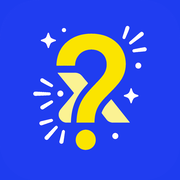
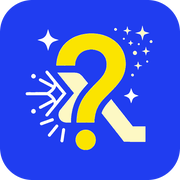
TriviX League: Instagram y YouTube, icono nuevo y marca en el titular

diff --git a/index.html b/index.html
@@ -3,15 +3,15 @@
 <head>
 <meta charset="UTF-8">
 <meta name="viewport" content="width=device-width, initial-scale=1.0">
-<title>TriviX — Responde. Aprende. Gana. / Answer. Learn. Win.</title>
-<meta name="description" content="TriviX: pon a prueba lo que sabes, reta a tus amigos en duelos 1vs1 y sube de rango. / Test what you know, challenge friends to 1v1 duels, and climb the ranks.">
+<title>TriviX League — Responde. Aprende. Gana. / Answer. Learn. Win.</title>
+<meta name="description" content="TriviX League: pon a prueba lo que sabes, reta a tus amigos en duelos 1vs1 y sube de rango. / Test what you know, challenge friends to 1v1 duels, and climb the ranks.">
 <!-- Favicon de 32 px aparte: si solo se le da el de 512, cada navegador lo reduce a su
      manera para la pestaña y algunos dejan un cerco claro en el borde. El ?v=2 es para
      que los navegadores que ya guardaron el icono viejo (una interrogacion sobre fondo
      blanco) se bajen el nuevo; los favicon se cachean con mucha insistencia. -->
-<link rel="icon" type="image/png" sizes="32x32" href="favicon-32.png?v=2">
-<link rel="icon" type="image/png" sizes="512x512" href="icono.png?v=2">
-<link rel="apple-touch-icon" href="apple-touch-icon.png?v=2">
+<link rel="icon" type="image/png" sizes="32x32" href="favicon-32.png?v=3">
+<link rel="icon" type="image/png" sizes="512x512" href="icono.png?v=3">
+<link rel="apple-touch-icon" href="apple-touch-icon.png?v=3">
 <link rel="preconnect" href="https://fonts.googleapis.com">
 <link rel="preconnect" href="https://fonts.gstatic.com" crossorigin>
 <link href="https://fonts.googleapis.com/css2?family=Baloo+2:wght@500;700;800&family=Manrope:wght@400;500;600;700;800&display=swap" rel="stylesheet">
@@ -59,6 +59,11 @@
   .nav-fila{ display:flex; align-items:center; justify-content:space-between; padding:16px 24px; max-width:1120px; margin:0 auto; gap:16px; }
   .marca{ font-size:22px; font-weight:800; letter-spacing:-0.01em; text-decoration:none; display:flex; align-items:center; gap:9px; flex:none; }
   .marca .x{ color:var(--dorado); }
+  /* "League" en una segunda linea, como en el logo del juego: en una sola linea la marca
+     media 210 px y en un telefono estrecho empujaba fuera el boton de "Jugar". La L va en
+     dorado igual que la X, que es lo que las hace pareja. */
+  .marca-txt{ display:flex; flex-direction:column; line-height:1; }
+  .marca-league{ font-size:0.62em; letter-spacing:0.04em; margin-top:-0.06em; }
   /* El icono de verdad de la app, no la interrogacion dibujada a mano que habia antes.
      Es el mismo fichero que se usa de favicon, asi que el navegador solo lo baja una vez. */
   /* Sin border-radius a proposito: el PNG ya lleva las esquinas redondeadas y
@@ -113,6 +118,9 @@
     padding:7px 14px; border-radius:999px; text-transform:uppercase; }
   .titulo{ font-size:clamp(46px,7.5vw,84px); font-weight:800; line-height:.95; margin:20px 0 6px; letter-spacing:-0.01em; }
   .titulo .trivi{ color:#fff; } .titulo .x{ color:var(--dorado); }
+  /* LEAGUE debajo y muy pegado, como el logo del juego: en una sola linea, a 84 px, no cabe
+     en el hero de un portatil. La L va en dorado igual que la X. */
+  .titulo .league{ display:block; font-size:0.66em; letter-spacing:0.02em; margin-top:-0.14em; }
   .eslogan{ font-size:clamp(19px,2.6vw,26px); font-weight:700; margin:2px 0 20px; }
   .eslogan .r{ color:#fff; } .eslogan .a{ color:var(--dorado); } .eslogan .g{ color:var(--cian); }
   .hero p.sub{ color:var(--suave); font-size:16.5px; max-width:46ch; margin:0 0 30px; }
@@ -343,7 +351,7 @@
 
 <header class="nav">
   <div class="nav-fila">
-    <a class="marca" href="#inicio"><img class="icono" src="icono.png" alt="" width="32" height="32">Trivi<span class="x">X</span></a>
+    <a class="marca" href="#inicio"><img class="icono" src="icono.png?v=3" alt="" width="32" height="32"><span class="marca-txt"><span>Trivi<span class="x">X</span></span><span class="marca-league"><span class="x">L</span>EAGUE</span></span></a>
     <div class="idiomas">
       <button type="button" data-idioma="es" aria-pressed="true">ES</button>
       <button type="button" data-idioma="en" aria-pressed="false">EN</button>
@@ -368,7 +376,7 @@
   <div class="hero-int">
     <div>
       <span class="eyebrow"><span lang="es">Trivia · Duelos · Rankings</span><span lang="en">Trivia · Duels · Rankings</span></span>
-      <h1 class="titulo"><span class="trivi">Trivi</span><span class="x">X</span></h1>
+      <h1 class="titulo"><span class="trivi">Trivi</span><span class="x">X</span><span class="league"><span class="x">L</span>EAGUE</span></h1>
       <p class="eslogan" lang="es"><span class="r">Responde.</span> <span class="a">Aprende.</span> <span class="g">Gana.</span></p>
       <p class="eslogan" lang="en"><span class="r">Answer.</span> <span class="a">Learn.</span> <span class="g">Win.</span></p>
       <p class="sub" lang="es">Pon a prueba lo que sabes, reta a tus amigos en duelos 1 contra 1 y sube de rango
@@ -376,7 +384,7 @@
       <p class="sub" lang="en">Test what you know, challenge your friends to 1-on-1 duels, and climb the ranks
       every day. Thousands of questions are waiting for you.</p>
       <div class="cta-fila">
-        <a class="boton-oro" href="#descarga">▶ <span lang="es">Descargar TriviX</span><span lang="en">Download TriviX</span></a>
+        <a class="boton-oro" href="#descarga">▶ <span lang="es">Descargar TriviX League</span><span lang="en">Download TriviX League</span></a>
         <a class="boton-fantasma" href="#modos"><span lang="es">Ver modos de juego</span><span lang="en">See game modes</span></a>
       </div>
     </div>
@@ -536,16 +544,16 @@
     <div class="descarga">
       <div>
         <span class="eyebrow"><span lang="es">Empieza ya</span><span lang="en">Get started now</span></span>
-        <h2 lang="es">Sé de las primeras 1.000 personas en jugar</h2>
-        <h2 lang="en">Be one of the first 1,000 people to play</h2>
-        <p lang="es">TriviX está en acceso anticipado y las plazas son limitadas. Entra ahora, elige
-        un nombre y empieza a subir de rango antes que nadie. Gratis.</p>
-        <p lang="en">TriviX is in early access and spots are limited. Join now, pick a name and start
-        climbing the ranks before anyone else. Free to play.</p>
+        <h2 lang="es">Ya disponible en Google Play</h2>
+        <h2 lang="en">Out now on Google Play</h2>
+        <p lang="es">TriviX League ya está publicado en 177 países. Descárgalo, elige un nombre y
+        empieza a subir de rango. Gratis.</p>
+        <p lang="en">TriviX League is out in 177 countries. Download it, pick a name and start
+        climbing the ranks. Free to play.</p>
         <div class="descarga-botones">
           <p class="chapa-anticipado">🚀
-            <span lang="es">Acceso anticipado · <span class="plazas">solo 1.000 plazas</span></span>
-            <span lang="en">Early access · <span class="plazas">only 1,000 spots</span></span>
+            <span lang="es">Disponible en <span class="plazas">177 países</span></span>
+            <span lang="en">Available in <span class="plazas">177 countries</span></span>
           </p>
           <a class="boton-play" href="https://play.google.com/store/apps/details?id=com.trivixsn.app">▶ <span lang="es">Consigue tu plaza en Google Play</span><span lang="en">Get your spot on Google Play</span></a>
           <span class="nota-ios"><span lang="es">La versión de iOS llegará próximamente.</span><span lang="en">The iOS version is coming soon.</span></span>
@@ -582,10 +590,10 @@
     </div>
     <div class="sobre">
       <div>
-        <p lang="es">Detrás de TriviX hay <b class="firma">un chaval con ganas de hacer su propio juego para
+        <p lang="es">Detrás de TriviX League hay <b class="firma">un chaval con ganas de hacer su propio juego para
         móvil</b> y de aprender por el camino. Sin empresa detrás, sin inversores y sin nadie a quien
         pasarle los marrones cuando algo se rompe.</p>
-        <p lang="en">Behind TriviX there is <b class="firma">one guy who wants to build his own mobile
+        <p lang="en">Behind TriviX League there is <b class="firma">one guy who wants to build his own mobile
         game</b> and learn along the way. No company backing it, no investors, and nobody else to hand
         the problems to when something breaks.</p>
 
@@ -617,10 +625,10 @@
         what the game has today came from someone taking the time to tell me.</p>
       </div>
       <aside class="sobre-tarjeta">
-        <img src="icono.png" alt="TriviX" width="88" height="88">
-        <b style="font-family:'Baloo 2',sans-serif;font-size:21px;">TriviX</b>
+        <img src="icono.png?v=3" alt="TriviX League" width="88" height="88">
+        <b style="font-family:'Baloo 2',sans-serif;font-size:21px;">TriviX League</b>
         <div class="sobre-datos">
-          <p class="sobre-dato"><b>+4.000</b><span lang="es">preguntas en 7 categorías</span><span lang="en">questions across 7 categories</span></p>
+          <p class="sobre-dato"><b>+4.500</b><span lang="es">preguntas en 8 categorías</span><span lang="en">questions across 8 categories</span></p>
           <p class="sobre-dato"><b>1vs1</b><span lang="es">duelos contra otros jugadores</span><span lang="en">duels against other players</span></p>
           <p class="sobre-dato"><b>+50</b><span lang="es">logros por desbloquear</span><span lang="en">achievements to unlock</span></p>
           <p class="sobre-dato"><b>0 €</b><span lang="es">gratis, sin pagar por jugar</span><span lang="en">free, no paying to play</span></p>
@@ -644,7 +652,7 @@
         <!-- FormSubmit reenvia el formulario al correo sin necesidad de servidor, que es lo
              unico que se puede hacer en GitHub Pages: aqui no hay backend donde procesar nada. -->
         <form action="https://formsubmit.co/trivixsn@gmail.com" method="POST">
-          <input type="hidden" name="_subject" value="Mensaje desde la web de TriviX">
+          <input type="hidden" name="_subject" value="Mensaje desde la web de TriviX League">
           <input type="hidden" name="_captcha" value="false">
           <input type="hidden" name="_template" value="table">
           <input type="text" name="_honey" class="miel" tabindex="-1" autocomplete="off" aria-hidden="true">
@@ -700,8 +708,8 @@
           <span lang="es">Nuestras redes sociales</span><span lang="en">Our social media</span>
         </h3>
         <p class="redes-pie" style="margin:0 0 20px;">
-          <span lang="es">Subimos preguntas, duelos y novedades de la app.</span>
-          <span lang="en">We post questions, duels and app news.</span>
+          <span lang="es">Subimos preguntas, duelos y novedades de la app en TikTok, Instagram y YouTube.</span>
+          <span lang="en">We post questions, duels and app news on TikTok, Instagram and YouTube.</span>
         </p>
 
         <a class="red" href="https://www.tiktok.com/@trivixstudio" target="_blank" rel="noopener noreferrer">
@@ -711,6 +719,31 @@
           <span class="red-texto">
             <b>TikTok</b>
             <span>@TriviXStudio</span>
+          </span>
+          <span class="red-flecha" aria-hidden="true">↗</span>
+        </a>
+
+        <a class="red" href="https://www.instagram.com/trivixstudio/" target="_blank" rel="noopener noreferrer">
+          <svg viewBox="0 0 24 24" fill="none" aria-hidden="true">
+            <path d="M12 2.16c3.2 0 3.58.01 4.85.07 1.17.05 1.8.25 2.23.41.56.22.96.48 1.38.9.42.42.68.82.9 1.38.16.42.36 1.06.41 2.23.06 1.26.07 1.64.07 4.85s-.01 3.58-.07 4.85c-.05 1.17-.25 1.8-.41 2.23-.22.56-.48.96-.9 1.38-.42.42-.82.68-1.38.9-.42.16-1.06.36-2.23.41-1.26.06-1.64.07-4.85.07s-3.58-.01-4.85-.07c-1.17-.05-1.8-.25-2.23-.41a3.72 3.72 0 0 1-1.38-.9 3.72 3.72 0 0 1-.9-1.38c-.16-.42-.36-1.06-.41-2.23-.06-1.26-.07-1.64-.07-4.85s.01-3.58.07-4.85c.05-1.17.25-1.8.41-2.23.22-.56.48-.96.9-1.38.42-.42.82-.68 1.38-.9.42-.16 1.06-.36 2.23-.41 1.26-.06 1.64-.07 4.85-.07M12 0C8.74 0 8.33.01 7.05.07 5.78.13 4.9.33 4.14.63c-.79.3-1.46.72-2.13 1.38A5.9 5.9 0 0 0 .63 4.14c-.3.76-.5 1.64-.56 2.91C.01 8.33 0 8.74 0 12s.01 3.67.07 4.95c.06 1.27.26 2.15.56 2.91.3.79.72 1.46 1.38 2.13a5.9 5.9 0 0 0 2.13 1.38c.76.3 1.64.5 2.91.56C8.33 23.99 8.74 24 12 24s3.67-.01 4.95-.07c1.27-.06 2.15-.26 2.91-.56a5.9 5.9 0 0 0 2.13-1.38 5.9 5.9 0 0 0 1.38-2.13c.3-.76.5-1.64.56-2.91.06-1.28.07-1.69.07-4.95s-.01-3.67-.07-4.95c-.06-1.27-.26-2.15-.56-2.91a5.9 5.9 0 0 0-1.38-2.13A5.9 5.9 0 0 0 19.86.63c-.76-.3-1.64-.5-2.91-.56C15.67.01 15.26 0 12 0Z" fill="#E1306C"/>
+            <path d="M12 5.84a6.16 6.16 0 1 0 0 12.32 6.16 6.16 0 0 0 0-12.32Zm0 10.16a4 4 0 1 1 0-8 4 4 0 0 1 0 8Z" fill="#E1306C"/>
+            <circle cx="18.41" cy="5.59" r="1.44" fill="#E1306C"/>
+          </svg>
+          <span class="red-texto">
+            <b>Instagram</b>
+            <span>@trivixstudio</span>
+          </span>
+          <span class="red-flecha" aria-hidden="true">↗</span>
+        </a>
+
+        <a class="red" href="https://www.youtube.com/@TriviXStudio-League" target="_blank" rel="noopener noreferrer">
+          <svg viewBox="0 0 24 24" fill="none" aria-hidden="true">
+            <path d="M23.5 6.19a3.02 3.02 0 0 0-2.12-2.14C19.5 3.55 12 3.55 12 3.55s-7.5 0-9.38.5A3.02 3.02 0 0 0 .5 6.19C0 8.08 0 12 0 12s0 3.92.5 5.81a3.02 3.02 0 0 0 2.12 2.14c1.88.5 9.38.5 9.38.5s7.5 0 9.38-.5a3.02 3.02 0 0 0 2.12-2.14C24 15.92 24 12 24 12s0-3.92-.5-5.81Z" fill="#FF0000"/>
+            <path d="M9.55 15.57 15.82 12 9.55 8.43v7.14Z" fill="#FFFFFF"/>
+          </svg>
+          <span class="red-texto">
+            <b>YouTube</b>
+            <span>@TriviXStudio-League</span>
           </span>
           <span class="red-flecha" aria-hidden="true">↗</span>
         </a>
@@ -730,21 +763,23 @@
 
 <footer>
   <div class="footer-int">
-    <a class="marca" href="#inicio" style="font-size:18px;"><img class="icono" src="icono.png" alt="" width="28" height="28" style="width:28px;height:28px;">Trivi<span class="x">X</span></a>
+    <a class="marca" href="#inicio" style="font-size:18px;"><img class="icono" src="icono.png?v=3" alt="" width="28" height="28" style="width:28px;height:28px;"><span class="marca-txt"><span>Trivi<span class="x">X</span></span><span class="marca-league"><span class="x">L</span>EAGUE</span></span></a>
     <nav class="footer-links">
       <a href="#modos"><span lang="es">Modos de juego</span><span lang="en">Game modes</span></a>
       <a href="#rangos"><span lang="es">Rangos</span><span lang="en">Ranks</span></a>
       <a href="#sobre"><span lang="es">Sobre nosotros</span><span lang="en">About us</span></a>
       <a href="#contacto"><span lang="es">Contacto</span><span lang="en">Contact</span></a>
       <a href="https://www.tiktok.com/@trivixstudio" target="_blank" rel="noopener noreferrer">TikTok</a>
+      <a href="https://www.instagram.com/trivixstudio/" target="_blank" rel="noopener noreferrer">Instagram</a>
+      <a href="https://www.youtube.com/@TriviXStudio-League" target="_blank" rel="noopener noreferrer">YouTube</a>
       <a href="privacidad.html"><span lang="es">Política de privacidad</span><span lang="en">Privacy policy</span></a>
       <a href="borrar-cuenta.html"><span lang="es">Eliminar cuenta</span><span lang="en">Delete account</span></a>
       <a href="mailto:TriviXsn@gmail.com">TriviXsn@gmail.com</a>
     </nav>
   </div>
   <p class="footer-copy" style="max-width:1120px;margin:22px auto 0;">
-    <span lang="es">© 2026 TriviX. Todas las marcas mencionadas pertenecen a sus respectivos dueños.</span>
-    <span lang="en">© 2026 TriviX. All trademarks mentioned belong to their respective owners.</span>
+    <span lang="es">© 2026 TriviX League. Todas las marcas mencionadas pertenecen a sus respectivos dueños.</span>
+    <span lang="en">© 2026 TriviX League. All trademarks mentioned belong to their respective owners.</span>
   </p>
 </footer>
 
